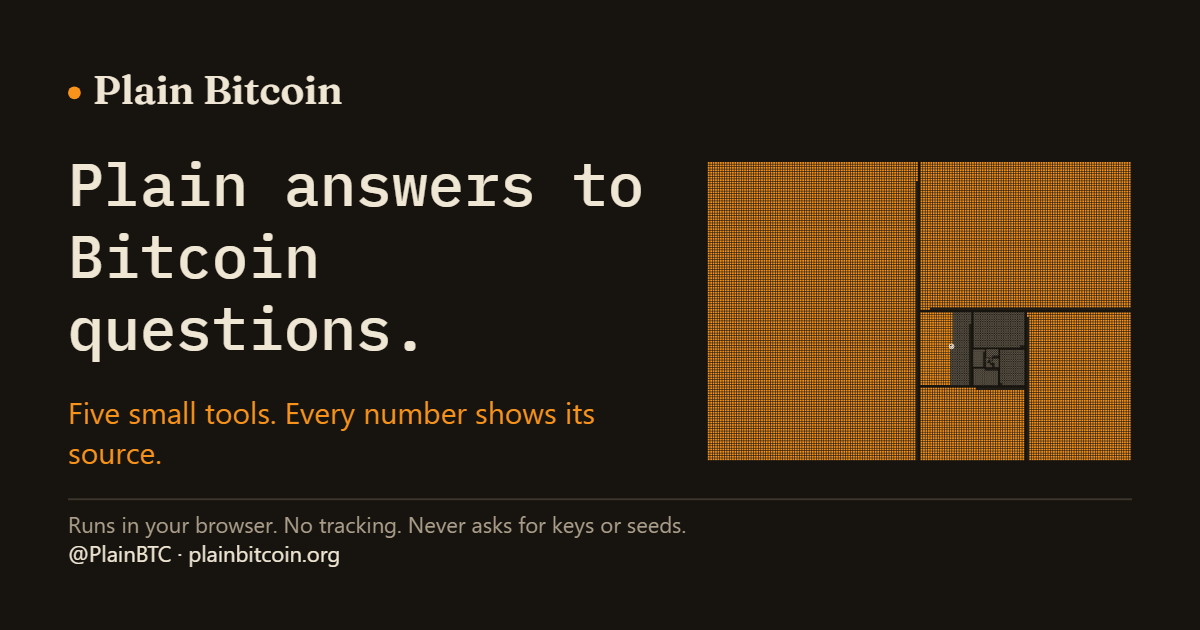
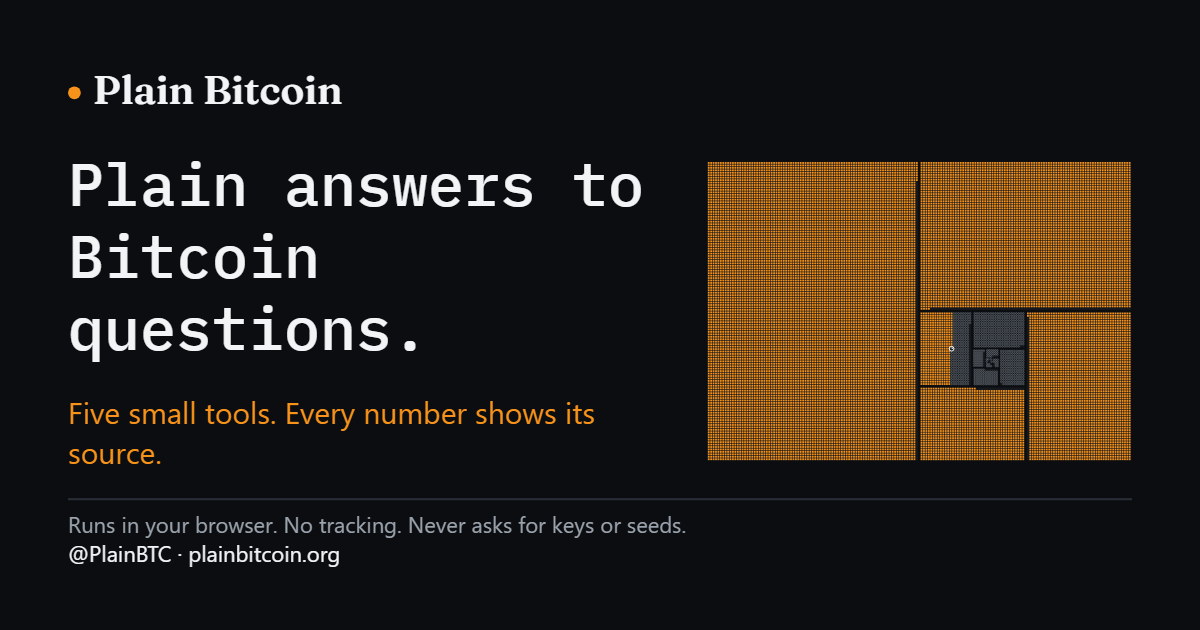
Switch to a cooler palette and sharpen the hero light
New colour tokens with a contrast test, a brighter hero light rig with the camera ease-in, and the favicon and share image recoloured.

diff --git a/src/hero/scene.ts b/src/hero/scene.ts
@@ -86,6 +86,7 @@ interface TierSettings {
     environmentSize: number;
     startRatio: number;
     maxRatio: number;
+    introSeconds: number;
 }
 
 const TIERS: Record<WebGlTier, TierSettings> = {
@@ -97,6 +98,7 @@ const TIERS: Record<WebGlTier, TierSettings> = {
         environmentSize: 128,
         startRatio: 1.5,
         maxRatio: 1.5,
+        introSeconds: 2.6,
     },
     phone: {
         segments: 9,
@@ -106,6 +108,7 @@ const TIERS: Record<WebGlTier, TierSettings> = {
         environmentSize: 64,
         startRatio: 1,
         maxRatio: 1.25,
+        introSeconds: 1.8,
     },
 };
 
@@ -115,6 +118,8 @@ const DRIFT_YAW = 3.5;
 const DRIFT_PITCH = 1.2;
 const TILT_YAW = 2.5;
 const TILT_PITCH = 1.5;
+const INTRO_PULL = 0.6;
+const INTRO_YAW = -16;
 const SLIVER_DROP = 2.6;
 const POOL_OPACITY = 0.48;
 const PULSE_BASE = 4;
@@ -203,7 +208,7 @@ export async function createScene(canvas: SceneCanvas, options: SceneInit): Prom
     renderer.toneMapping = ACESFilmicToneMapping;
     renderer.toneMappingExposure = 1;
 
-    const background = hexToSrgb(TOKENS.inkRaised);
+    const background = hexToSrgb(TOKENS.raised);
     const backgroundLinear = background.map(srgbToLinear) as unknown as Rgb;
     const sceneBackground = linearColor(full ? inverseAces(backgroundLinear) : backgroundLinear);
 
@@ -221,15 +226,15 @@ export async function createScene(canvas: SceneCanvas, options: SceneInit): Prom
     };
     await nextTask();
     scene.environment = buildEnvironment();
-    scene.environmentIntensity = 0.4;
+    scene.environmentIntensity = 0.3;
 
-    const key = new DirectionalLight(mix(TOKENS.paper, TOKENS.btc, 0.28), 2.9);
+    const key = new DirectionalLight(mix(TOKENS.paper, TOKENS.btc, 0.3), 3.3);
     key.position.set(-60, 90, 70);
-    const rim = new DirectionalLight(color(TOKENS.fiat), 2.1);
+    const rim = new DirectionalLight(color(TOKENS.fiat), 2.8);
     rim.position.set(55, 28, -90);
-    const kicker = new DirectionalLight(mix(TOKENS.btc, TOKENS.paper, 0.45), 0.8);
+    const kicker = new DirectionalLight(mix(TOKENS.btc, TOKENS.paper, 0.45), 0.6);
     kicker.position.set(40, 18, 110);
-    const fill = new HemisphereLight(color(TOKENS.line), color(TOKENS.ink), 0.55);
+    const fill = new HemisphereLight(color(TOKENS.line), color(TOKENS.ink), 0.4);
     scene.add(key, rim, kicker, fill);
 
     await nextTask();
@@ -241,7 +246,7 @@ export async function createScene(canvas: SceneCanvas, options: SceneInit): Prom
     const slabs = slabGeometry(layout);
     const slabSide = new MeshStandardMaterial({ color: mix(TOKENS.line, TOKENS.ink, 0.35), roughness: 0.92 });
     const slabTop = new MeshStandardMaterial({
-        color: mix(TOKENS.line, TOKENS.inkRaised, 0.25),
+        color: mix(TOKENS.line, TOKENS.raised, 0.25),
         roughness: 0.85,
         map: shadow.texture,
     });
@@ -402,6 +407,7 @@ export async function createScene(canvas: SceneCanvas, options: SceneInit): Prom
     const offset = new Vector3();
     const right = new Vector3();
     let driftTime = options.reducedMotion ? DRIFT_SECONDS : 0;
+    let intro = options.reducedMotion ? 1 : 0;
     const tilt = { yaw: 0, pitch: 0, goalYaw: 0, goalPitch: 0 };
 
     function pose(): void {
@@ -413,11 +419,13 @@ export async function createScene(canvas: SceneCanvas, options: SceneInit): Prom
         offset.lerpVectors(start.position, goal.position, t).sub(look);
         const envelope = Math.sin((Math.PI * Math.min(driftTime, DRIFT_SECONDS)) / DRIFT_SECONDS) ** 2;
         const phase = (driftTime / DRIFT_SECONDS) * Math.PI * 2 * 1.4;
-        const yaw = DRIFT_YAW * envelope * Math.sin(phase) + tilt.yaw;
+        const away = 1 - ease.outCubic(intro);
+        const yaw = DRIFT_YAW * envelope * Math.sin(phase) + tilt.yaw + INTRO_YAW * away;
         const pitch = DRIFT_PITCH * envelope * Math.sin(phase * 0.7) + tilt.pitch;
         offset.applyAxisAngle(UP, MathUtils.degToRad(yaw));
         right.crossVectors(UP, offset).normalize();
         offset.applyAxisAngle(right, MathUtils.degToRad(-pitch));
+        offset.multiplyScalar(1 + INTRO_PULL * away);
         camera.position.copy(look).add(offset);
         camera.lookAt(look);
         const offsetX = MathUtils.lerp(start.offsetX, goal.offsetX, t);
@@ -491,7 +499,7 @@ export async function createScene(canvas: SceneCanvas, options: SceneInit): Prom
 
     function animating(): boolean {
         const tilting = Math.abs(tilt.yaw - tilt.goalYaw) + Math.abs(tilt.pitch - tilt.goalPitch) > 0.002;
-        return tweens.busy || driftTime < DRIFT_SECONDS || tilting;
+        return tweens.busy || intro < 1 || driftTime < DRIFT_SECONDS || tilting;
     }
 
     function frame(now: number): void {
@@ -499,6 +507,7 @@ export async function createScene(canvas: SceneCanvas, options: SceneInit): Prom
         const dt = last ? Math.min(0.1, (now - last) / 1000) : 0;
         last = now;
         tweens.tick(dt);
+        if (intro < 1) intro = Math.min(1, intro + dt / settings.introSeconds);
         if (driftTime < DRIFT_SECONDS) driftTime = Math.min(DRIFT_SECONDS, driftTime + dt);
         const k = damp(4, dt);
         tilt.yaw += (tilt.goalYaw - tilt.yaw) * k;

diff --git a/src/styles/tokens.test.ts b/src/styles/tokens.test.ts
@@ -13,8 +13,34 @@ function cssTokens(source: string): Record<string, string> {
     return Object.fromEntries(entries);
 }
 
+function luminance(hex: string): number {
+    const [r = 0, g = 0, b = 0] = [1, 3, 5].map((start) => {
+        const channel = Number.parseInt(hex.slice(start, start + 2), 16) / 255;
+        return channel <= 0.03928 ? channel / 12.92 : ((channel + 0.055) / 1.055) ** 2.4;
+    });
+    return 0.2126 * r + 0.7152 * g + 0.0722 * b;
+}
+
+function contrast(a: string, b: string): number {
+    const [light, dark] = [luminance(a), luminance(b)].sort((x, y) => y - x) as [number, number];
+    return (light + 0.05) / (dark + 0.05);
+}
+
 describe('design tokens', () => {
     it('tokens.ts mirrors tokens.css exactly', () => {
         expect(cssTokens(css)).toEqual(TOKENS);
+    });
+
+    it('keeps every text colour at AA body contrast on both surfaces', () => {
+        for (const text of [TOKENS.paper, TOKENS.muted, TOKENS.btc, TOKENS.fiat]) {
+            for (const surface of [TOKENS.ink, TOKENS.raised]) {
+                expect(contrast(text, surface)).toBeGreaterThanOrEqual(4.5);
+            }
+        }
+    });
+
+    it('keeps ink readable on the orange and paper buttons', () => {
+        expect(contrast(TOKENS.ink, TOKENS.btc)).toBeGreaterThanOrEqual(4.5);
+        expect(contrast(TOKENS.ink, TOKENS.paper)).toBeGreaterThanOrEqual(4.5);
     });
 });

diff --git a/src/styles/tokens.ts b/src/styles/tokens.ts
@@ -1,15 +1,11 @@
 export const TOKENS = {
-    ink: '#17140f',
-    inkRaised: '#201c16',
-    line: '#3b342b',
-    paper: '#efe6d4',
-    muted: '#ab9f8b',
+    ink: '#0b0d10',
+    raised: '#15181d',
+    line: '#2a2f37',
+    paper: '#f3f4f6',
+    muted: '#9ba3ad',
     btc: '#f7931a',
     fiat: '#7db7e8',
-    well: '#110f0b',
-    panel: '#1c1813',
-    panelHigh: '#24201a',
-    edge: '#2e2820',
 
     fontBody: 'system-ui, -apple-system, "Segoe UI", Roboto, sans-serif',
     fontDisplay: '"Fraunces", Georgia, "Times New Roman", serif',
@@ -20,17 +16,15 @@ export const TOKENS = {
     stepBody: '1rem',
     stepLead: '1.125rem',
     stepTitle: 'clamp(1.25rem, 1.05rem + 0.9vw, 1.5rem)',
-    stepHeading: 'clamp(1.875rem, 1.35rem + 2.4vw, 2.75rem)',
-    stepDisplay: 'clamp(2.25rem, 1.5rem + 3.2vw, 3.75rem)',
-    stepFigure: 'clamp(2.5rem, 1.6rem + 4.5vw, 4rem)',
-    stepAnswer: 'clamp(1.25rem, 0.9rem + 2vw, 2.75rem)',
+    stepHeading: 'clamp(1.75rem, 1.4rem + 1.6vw, 2.25rem)',
+    stepFigure: 'clamp(2.5rem, 1.6rem + 4.5vw, 4.5rem)',
+    stepAnswer: 'clamp(1.75rem, 1.15rem + 3vw, 3.25rem)',
 
     gutter: '1rem',
-    measure: '56rem',
+    measure: '46rem',
     measureWide: '72rem',
     tap: '2.75rem',
-    radius: '6px',
-    radiusLg: '14px',
+    radius: '8px',
     spaceS: '0.75rem',
     spaceM: '1.25rem',
     spaceL: '2rem',

diff --git a/src/styles/tokens.css b/src/styles/tokens.css
@@ -1,15 +1,11 @@
 :root {
-    --ink: #17140f;
-    --ink-raised: #201c16;
-    --line: #3b342b;
-    --paper: #efe6d4;
-    --muted: #ab9f8b;
+    --ink: #0b0d10;
+    --raised: #15181d;
+    --line: #2a2f37;
+    --paper: #f3f4f6;
+    --muted: #9ba3ad;
     --btc: #f7931a;
     --fiat: #7db7e8;
-    --well: #110f0b;
-    --panel: #1c1813;
-    --panel-high: #24201a;
-    --edge: #2e2820;
 
     --font-body: system-ui, -apple-system, "Segoe UI", Roboto, sans-serif;
     --font-display: "Fraunces", Georgia, "Times New Roman", serif;
@@ -20,17 +16,15 @@
     --step-body: 1rem;
     --step-lead: 1.125rem;
     --step-title: clamp(1.25rem, 1.05rem + 0.9vw, 1.5rem);
-    --step-heading: clamp(1.875rem, 1.35rem + 2.4vw, 2.75rem);
-    --step-display: clamp(2.25rem, 1.5rem + 3.2vw, 3.75rem);
-    --step-figure: clamp(2.5rem, 1.6rem + 4.5vw, 4rem);
-    --step-answer: clamp(1.25rem, 0.9rem + 2vw, 2.75rem);
+    --step-heading: clamp(1.75rem, 1.4rem + 1.6vw, 2.25rem);
+    --step-figure: clamp(2.5rem, 1.6rem + 4.5vw, 4.5rem);
+    --step-answer: clamp(1.75rem, 1.15rem + 3vw, 3.25rem);
 
     --gutter: 1rem;
-    --measure: 56rem;
+    --measure: 46rem;
     --measure-wide: 72rem;
     --tap: 2.75rem;
-    --radius: 6px;
-    --radius-lg: 14px;
+    --radius: 8px;
     --space-s: 0.75rem;
     --space-m: 1.25rem;
     --space-l: 2rem;

diff --git a/src/hero/plain.ts b/src/hero/plain.ts
@@ -52,7 +52,7 @@ export function plainSvg(scene: Picture): string {
         const size = Math.min(block.w, block.d) * 0.11;
         if (size < view.w * 0.012 || block.w < size * 6) continue;
         parts.push(
-            `<text x="${n(block.x + block.w / 2)}" y="${n(block.z + block.d / 2 + size * 0.35)}" font-size="${n(size)}" text-anchor="middle" fill="${TOKENS.paper}" stroke="${TOKENS.inkRaised}" stroke-width="${n(size * 0.28)}" paint-order="stroke" font-family="${TOKENS.fontMono.replace(/"/g, "'")}">${block.label}</text>`,
+            `<text x="${n(block.x + block.w / 2)}" y="${n(block.z + block.d / 2 + size * 0.35)}" font-size="${n(size)}" text-anchor="middle" fill="${TOKENS.paper}" stroke="${TOKENS.raised}" stroke-width="${n(size * 0.28)}" paint-order="stroke" font-family="${TOKENS.fontMono.replace(/"/g, "'")}">${block.label}</text>`,
         );
     }
     parts.push('</svg>');

diff --git a/src/hero/aces.test.ts b/src/hero/aces.test.ts
@@ -4,7 +4,7 @@ import { aces, hexToSrgb, inverseAces, srgbToLinear } from './aces.ts';
 
 describe('inverseAces', () => {
     it('finds the scene colour that tone-maps back to the page background', () => {
-        for (const hex of [TOKENS.ink, TOKENS.inkRaised, TOKENS.line]) {
+        for (const hex of [TOKENS.ink, TOKENS.raised, TOKENS.line]) {
             const target = hexToSrgb(hex).map(srgbToLinear) as [number, number, number];
             const mapped = aces(inverseAces(target));
             for (let c = 0; c < 3; c += 1) expect(mapped[c]).toBeCloseTo(target[c] ?? 0, 5);

diff --git a/src/hero/flat.ts b/src/hero/flat.ts
@@ -21,7 +21,7 @@ export function drawFlatField(context: CanvasRenderingContext2D, box: ArtBox, to
     const r = TOKEN_RADIUS * scale;
 
     context.save();
-    context.fillStyle = TOKENS.inkRaised;
+    context.fillStyle = TOKENS.raised;
     for (const block of layout.blocks) {
         if (block.w * scale < 0.5) continue;
         context.fillRect(px(block.x), pz(block.z), block.w * scale, block.d * scale);
